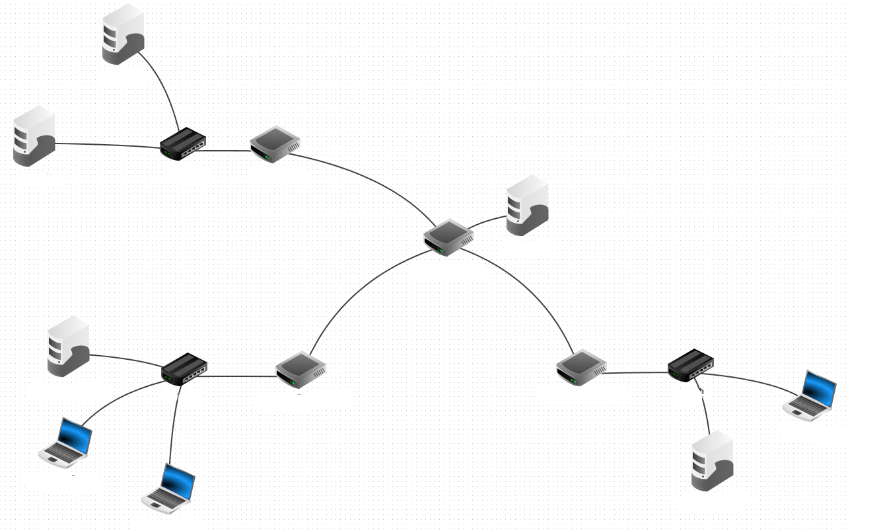
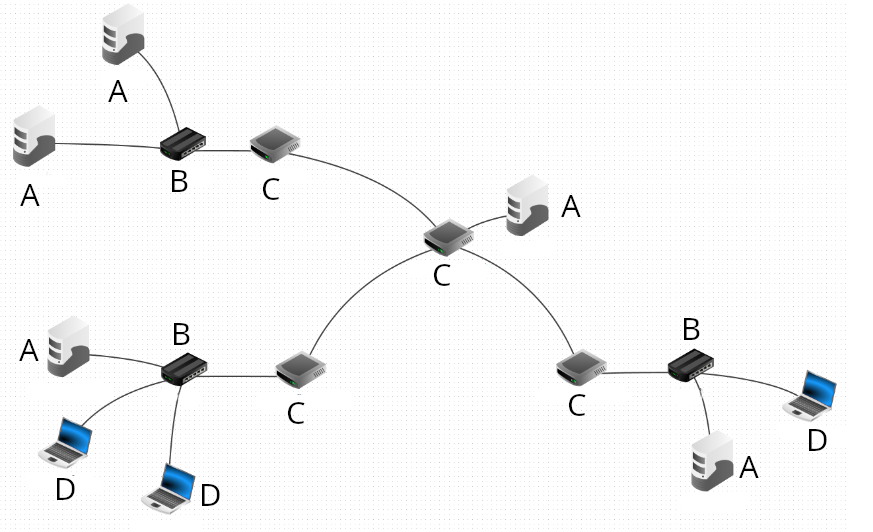
MAJ site NSI

diff --git a/docs/terminale/routage/cours.md b/docs/terminale/routage/cours.md
@@ -1,4 +1,5 @@
 ??? quote "Sources / Liens utiles"
+    - Balabonski Terminale
     - [https://www.lyceum.fr/tg/nsi/3-architectures-materielles-systemes-dexploitation-et-reseaux/3-protocoles-de-routage/](https://www.lyceum.fr/tg/nsi/3-architectures-materielles-systemes-dexploitation-et-reseaux/3-protocoles-de-routage/){ target="_blank" }
     - [http://nsi4noobs.fr/IMG/pdf/c3_tnsi_routage.pdf](http://nsi4noobs.fr/IMG/pdf/c3_tnsi_routage.pdf){ target="_blank" }
     - [https://glassus.github.io/terminale_nsi/T5_Architecture_materielle/5.3_Protocoles_de_routage/cours/](https://glassus.github.io/terminale_nsi/T5_Architecture_materielle/5.3_Protocoles_de_routage/cours/){ target="_blank" }
@@ -7,13 +8,25 @@
 
 # Cours - Protocoles de routage
 
-## Rappels de première
+## Rappels sur l'adressage IP
 
 Voici une petite activité (sous la forme d'un notebook) de rappel sur l'**adressage IP et les masques de sous-réseau** :
     
 <center>
 [:material-cursor-default-click: Télécharger l'activité d'introduction](src/protocoles_routage_activite_introduction.ipynb){ target="_blank" }
 </center>
+
+!!! tip "Adresses *broadcast* et *multicast*"
+    - **Broadcast** : Cette adresse vous permet d'appeler **tous les hôtes** (*interfaces*) à l'intérieur d'un **sous-réseau**. Une **adresse IP broadcast** est par exemple `192.168.100.255` et un **broadcast MAC** est `FF:FF:FF:FF:FF:FF`.
+    - **Multicast** : Ce type d'adresse permet d'appeler un **groupe spécifique d'hôtes** (*interfaces*) dans un **sous-réseau**.
+
+## Rappels - Qu'est-ce qu'un réseau ?
+
+Vous pouvez dans un premier temps essayer de faire l'[exercice 1](#exercices) pour tester vos connaissances sur les composants d'un réseau.
+
+Voici une petite vidéo résumant la **constitution d'un réseau** (et plus généralement du **réseau mondial**) :
+
+<iframe width="560" height="315" src="https://www.youtube-nocookie.com/embed/JqweQE6TDTc" title="YouTube video player" frameborder="0" allow="accelerometer; autoplay; clipboard-write; encrypted-media; gyroscope; picture-in-picture; web-share" allowfullscreen></iframe>
 
 ## Rappels modèles OSI et TCP/IP
 
@@ -27,6 +40,26 @@ Voici un rappel des **modèles en couches** (en **7 couches** avec le modèle **
 
 ??? abstract "Schéma plus détaillé - Encapsulation des données (modèle TCP/IP)"
     ![Encapsulation des données](images/osi_exemple.png)
+
+??? abstract "Protocoles IP et TCP"
+    Les **deux protocoles** qui nous intéressent particulièrement sont :
+
+    - Le **protocole IP** (COUCHE **RÉSEAU**) qui consiste à attribuer à chaque machine une **adresse IP unique** pour l’**identifier sur le réseau**, et ainsi transmettre l'information sous la forme de **paquets** comportant l'indication de l'**adresse IP source** et de l'**adresse IP de destination**.
+    - Le **protocole TCP** (COUCHE **TRANSPORT**) qui permet d’assurer la communication de l’information en la **découpant en segments**, comportant l'indication du **port source** et du **port de destination**, et en s’assurant que tous les paquets soient bien **reçus** et **conformes** à l’**information envoyée**. (Il existe un protocole plus rapide mais qui, contraiement à **TCP**, n'assure pas que toutes les données soient reçues : le protocole **UDP**.)
+
+    Voici un rappel de la manière dont s'effectue l'**établissement d'une connexion** ainsi que la **transmission des données** avec le protocole **TCP** ([source de l'image](https://openclassrooms.com/fr/courses/2340511-maitrisez-vos-applications-et-reseaux-tcp-ip/5678267-exercez-vous-au-suivi-de-connexion){ target="_blank" }):
+
+    ![Transmission des données avec le protocole TCP](images/TCP_transmission.png)
+
+    Lorsqu'un paquet n'est pas correctement transmis, il est **de nouveau envoyé** ([source de l'image](http://shtroumbiniouf.free.fr/CoursInfo/Reseau2/Cours/TCP/TCP.html){ target="_blank" }):
+
+    <center>
+    ![Échec de transmission](images/AckPositif.gif)
+    </center>
+
+    <center>
+    [:octicons-link-external-16: Voir plus d'informations sur le protocole TCP](https://laissus.developpez.com/tutoriels/cours-introduction-tcp-ip/?page=page_7){ target="_blank" }
+    </center>
 
 ## Introduction
 
@@ -55,21 +88,87 @@ Si l'**hôte de destination** et l'**hôte source** sont **sur le même réseau*
 
 En revanche, si l'**hôte source** et l'**hôte de destination** ne sont **pas sur le même réseau**, le réseau local dirige le **paquet** de la **source** vers son **routeur de passerelle de niveau 3** (*troisième couche du modèle OSI*). Le **routeur** analyse la **partie réseau de l'adresse de destination** du **paquet** et le **dirige vers l'interface appropriée**. Si le **réseau de destination** est directement **connecté à ce routeur**, le **paquet** est **transmis directement à l'hôte de destination**. Dans le cas contraire, le **paquet** est **envoyé à un second routeur**, qui agit comme le **routeur de tronçon suivant**. Le transfert du paquet devient alors la responsabilité de ce second routeur. De **multiples routeurs ou sauts** tout au long du chemin peuvent traiter le paquet avant qu'il n'atteigne sa **destination**. Contrairement aux **commutateurs**, les **routeurs** se basent sur les **adresses IP** pour le transfert des données.
 
-Aucun paquet ne peut être acheminé sans route. Que le paquet provienne d'un hôte ou soit dirigé par un routeur intermédiaire, le routeur a besoin d'une route pour déterminer son itinéraire. Si aucune route n'existe vers le réseau de destination, le paquet ne peut pas être transféré. Les **routeurs** utilisent des **tables de routage**, qui peuvent être établies **manuellement** (*routage statique*) ou **automatiquement** (*routage dynamique*) en utilisant des ==**protocoles** tels que **RIP** (*Routing Information Protocol*) ou **OSPF** (*Open Shortest Path First*)==, par exemple.
+!!! success ""
+    Aucun paquet ne peut être acheminé sans route. Que le paquet provienne d'un **hôte** ou soit dirigé par un **routeur intermédiaire**, le routeur a besoin d'une **route** pour déterminer son **itinéraire**. Si aucune route n'existe vers le **réseau de destination**, le paquet ne peut pas être transféré.
+    
+    Les **routeurs** utilisent des **tables de routage**, qui peuvent être établies de deux manières :
+    
+    - par un ==**routage statique**== : chaque ligne doit être renseignée "à la main". Cette solution est seulement envisageable pour des très petits réseaux de réseaux.
+    - par un ==**routage dynamique**== : tout se fait "automatiquement", en utilisant des **protocoles** tels que **RIP** (*Routing Information Protocol*) ou **OSPF** (*Open Shortest Path First*)==, qui vont permettre de "découvrir" les **différentes routes automatiquement** afin de pouvoir **remplir la table de routage** tout aussi **automatiquement**.
+
+!!! abstract "Une tableau de routage"
+    Voici à quoi ressemble une **table de routage** (source : [Wikipédia](https://fr.wikipedia.org/wiki/Table_de_routage){ target="_blank" }) :
+
+    | Réseau destination (format CIDR) | Masque           | Passerelle      | Interface       | Métrique |
+    |----------------------------------|------------------|-----------------|------------------|----------|
+    | 0.0.0.0/0                        | 0.0.0.0          | 192.168.0.1     | 192.168.0.100   | 1        |
+    | 127.0.0.0/8                      | 255.0.0.0        | 127.0.0.1       | 127.0.0.1       | 1        |
+    | 192.168.0.0/24                   | 255.255.255.0    | 192.168.0.100   | 192.168.0.100   | 1        |
+    | 192.168.0.100/32                 | 255.255.255.255  | 127.0.0.1       | 127.0.0.1       | 1        |
+    | 192.168.0.1/32                   | 255.255.255.255  | 192.168.0.100   | 192.168.0.100   | 1        |
+
+    La ==**métrique**== est une mesure de la « distance » qui ==sépare un **routeur** d'un **réseau de destination**==. Dans le cadre du **protocole RIP**, on peut l'assimiler au **nombre de sauts IP nécessaires** pour **atteindre le réseau destination** (ce qui n'est pas le cas pour le protocole **OSPF**, où la métrique sera liée au **coût des liaisons**). Ainsi, un réseau **directement lié à un routeur** aura une métrique de `0`.
+
+    Sur votre ordinateur, vous pouvez **afficher la table de routage** utilisée par **votre système** en utilisant les commandes suivantes :
+
+    - Sous **Windows** : `route print` ou `netsh int ipv4/ipv6 sh route`
+    - Sous **Unix/OS X** : `netstat -rn
+    - Sous **Linux** : `ip -4/-6 route`
+
+!!! note "Exemple de table de routage"
+    Voici un exemple de réseau (*source* : [pixees](https://pixees.fr/informatiquelycee/n_site/nsi_term_archi_routage.html){ target="_blank" })
+
+    <figure markdown>
+    ![Diagramme d’un réseau](images/table_routage_pixees.png)
+    <figcaption>Diagramme d’un réseau</figcaption>
+    </figure>
+
+    Voici par exemple ce que donnerait la **table de routage** du **routeur A**, après la mise à jour effectuée avec le **protocole RIP** :
+
+    | Réseau           |   Passerelle   | Interface | Métrique |
+    |------------------|----------------|-----------|----------|
+    | 172.168.0.0/16   |                | eth0      | 0        |
+    | 192.168.7.2/24   |                | eth1      | 0        |
+    | 172.169.0.0/16   |                | eth2      | 0        |
+    | 10.0.0.0/8       | 192.168.7.2/24 |           | 1        |
+
+    !!! note ""
+        À votre tour, donnez la **table de routage** du routeur **G**.
 
 ## Protocole « à vecteur de distances » - RIP
 
-Le **nombre de routeurs** dans un **réseau** est souvent **trop élevé** pour envisager une **configuration manuelle des tables de routage**. En effet, à chaque fois qu'un élément du réseau tombe en panne ou qu'une modification est apportée à sa **topologie** (comme l'ajout d'une nouvelle liaison ou d'un nouveau routeur), il devient nécessaire de recalculer toutes les routes et de mettre à jour les tables de routage de chaque routeur. Pour réaliser cette tâche, il serait également nécessaire d'envoyer toutes les données relatives à l'état des liaisons et des routeurs vers un opérateur unique, chargé de calculer les nouvelles routes. Outre les inconvénients de centraliser cette tâche, il faut également garantir que les informations sur l'état du réseau peuvent être transmises sans problème à cet opérateur. Malheureusement, les moyens de communication utilisés à cette fin peuvent eux aussi tomber en panne.
+Le **nombre de routeurs** dans un **réseau** est souvent **trop élevé** pour envisager une **configuration manuelle des tables de routage**. En effet, à chaque fois qu'un élément du réseau tombe en panne ou qu'une modification est apportée à sa **topologie** (comme l'ajout d'une nouvelle liaison ou d'un nouveau routeur), il devient nécessaire de **recalculer toutes les routes** et de **mettre à jour les tables de routage de chaque routeur**. Pour réaliser cette tâche, il serait également nécessaire d'envoyer toutes les données relatives à l'**état des liaisons** et des **routeurs** vers un **opérateur unique**, chargé de **calculer les nouvelles routes**. Outre les inconvénients de centraliser cette tâche, il faut également garantir que les informations sur l'état du réseau peuvent être transmises sans problème à cet opérateur. Malheureusement, les moyens de communication utilisés à cette fin peuvent eux aussi **tomber en panne**.
 
-Pour toutes ces raisons, l'approche consiste à automatiser ce processus en permettant aux routeurs de mettre à jour leurs tables de routage sans intervention humaine. Ainsi, en plus de la transmission des paquets, les routeurs échangent des informations sur les routes du réseau en fonction de l'état de leurs voisins et de leurs liens de communication. Les règles régissant ces échanges sont définies par un protocole de routage.
+Pour toutes ces raisons, l'approche consiste à **automatiser ce processus** en permettant aux routeurs de mettre à jour leurs tables de routage sans intervention humaine. Ainsi, en plus de la **transmission des paquets**, les routeurs échangent des informations sur les **routes** du **réseau** en fonction de l'**état de leurs voisins** et de leurs **liens de communication**. Les règles régissant ces échanges sont définies par un **protocole de routage**.
 
-Initialement, les informations dont dispose un routeur concernent ses voisins immédiats ainsi que les sous-réseaux auxquels il est connecté. En envoyant régulièrement des messages à ses voisins et en mesurant les temps de réponse de ces machines, le routeur peut déterminer si un autre routeur est en panne ou si la liaison entre eux est rompue. Il peut ensuite diffuser ces informations à tous ses voisins, qui peuvent à leur tour les transmettre à leurs voisins, et ainsi de suite. De cette manière, progressivement, tous les routeurs finissent par partager les mêmes connaissances sur la topologie du réseau. Cependant, pour que l'échange de ces informations soit bien coordonné, les routeurs doivent suivre le même protocole. Dans cette section, nous décrivons le **protocole RIP** (*Routing Information Protocol* en anglais), un exemple de protocole utilisé à cette fin.
+Initialement, les **informations** dont dispose un **routeur** concernent **ses voisins immédiats** ainsi que les **sous-réseaux auxquels il est connecté**. En **envoyant** régulièrement des **messages** à ses **voisins** et en mesurant les temps de réponse de ces machines, le routeur peut déterminer si un autre routeur **est en panne** ou si la liaison entre eux est **rompue**. Il peut ensuite diffuser ces informations à tous ses voisins, qui peuvent à leur tour les transmettre à leurs voisins, et ainsi de suite. De cette manière, progressivement, tous les routeurs finissent par partager les mêmes connaissances sur la topologie du réseau. Cependant, pour que l'échange de ces informations soit bien coordonné, les routeurs doivent suivre **le même protocole**. Dans cette section, nous décrivons le ==**protocole RIP**== (*Routing Information Protocol* en anglais), un exemple de protocole utilisé à cette fin.
+
+!!! abstract "Principe du protocole RIP"
+    Le **protocole RIP** s'appuie sur l'==**algorithme de Bellman-Ford**== (un algorithme utilisant le principe de **programmation dynamique**), permettant de **calculer les plus courts chemins** dans un graphe.
+
+    L'**algorithme** du **protocole RIP** repose sur le partage d'informations entre routeurs pour déterminer les meilleures routes vers différents sous-réseaux. Chaque routeur communique avec ses voisins en échangeant des vecteurs de distance, des couples (adresse, distance), qui représentent la distance en nombre de sauts vers une machine spécifique. Ces échanges permettent aux routeurs de construire et mettre à jour leurs tables de routage.
+
+    Dans la phase d'initialisation, chaque routeur transmet les adresses de ses voisins et les distances associées. Ces informations sont utilisées pour former des vecteurs de distance. À partir de là, le protocole RIP continue par des échanges périodiques de demandes et de réponses entre les routeurs. Lorsqu'un routeur reçoit une réponse de son voisin, plusieurs scénarios peuvent se produire :
+
+    1. Découverte d'une nouvelle route vers un sous-réseau inconnu : le routeur l'ajoute à sa table.
+    2. Découverte d'une route plus courte vers un sous-réseau connu : le routeur met à jour sa table en remplaçant l'ancienne route par la nouvelle.
+    3. Réception d'une nouvelle route plus longue : le routeur ignore cette information.
+    4. Réception d'une route existante, mais plus longue, vers un routeur passant par le même voisin : le routeur met à jour sa table en tenant compte de cette nouvelle route.
+
+    Les distances associées aux routes sont ajustées en fonction du chemin parcouru, et la distance maximale est limitée à 15 routeurs intermédiaires. Au-delà de cette limite, la route est ignorée ou supprimée des tables de routage.
+
+    En répétant ces échanges et en mettant à jour les tables de routage à intervalle fixe (l'intervalle de mise à jour par défaut pour le RIP est de 30 secondes.), les routeurs convergent vers une vision commune du réseau, déterminant ainsi les meilleures routes pour acheminer les paquets vers leurs destinations.
 
 ## Protocole « à état de liens » - OSPF
 
 ## Exercices
 
-!!! note "Composants dans un réseau"
+!!! note "Exercice 1 - Composants dans un réseau"
     Identifiez les différents composants du réseau suivant :
 
     ![Composants d'un réseau](images/composants_reseau.png)
+
+    A = `..........`  
+    B = `..........`  
+    C = `..........`  
+    D = `..........`
